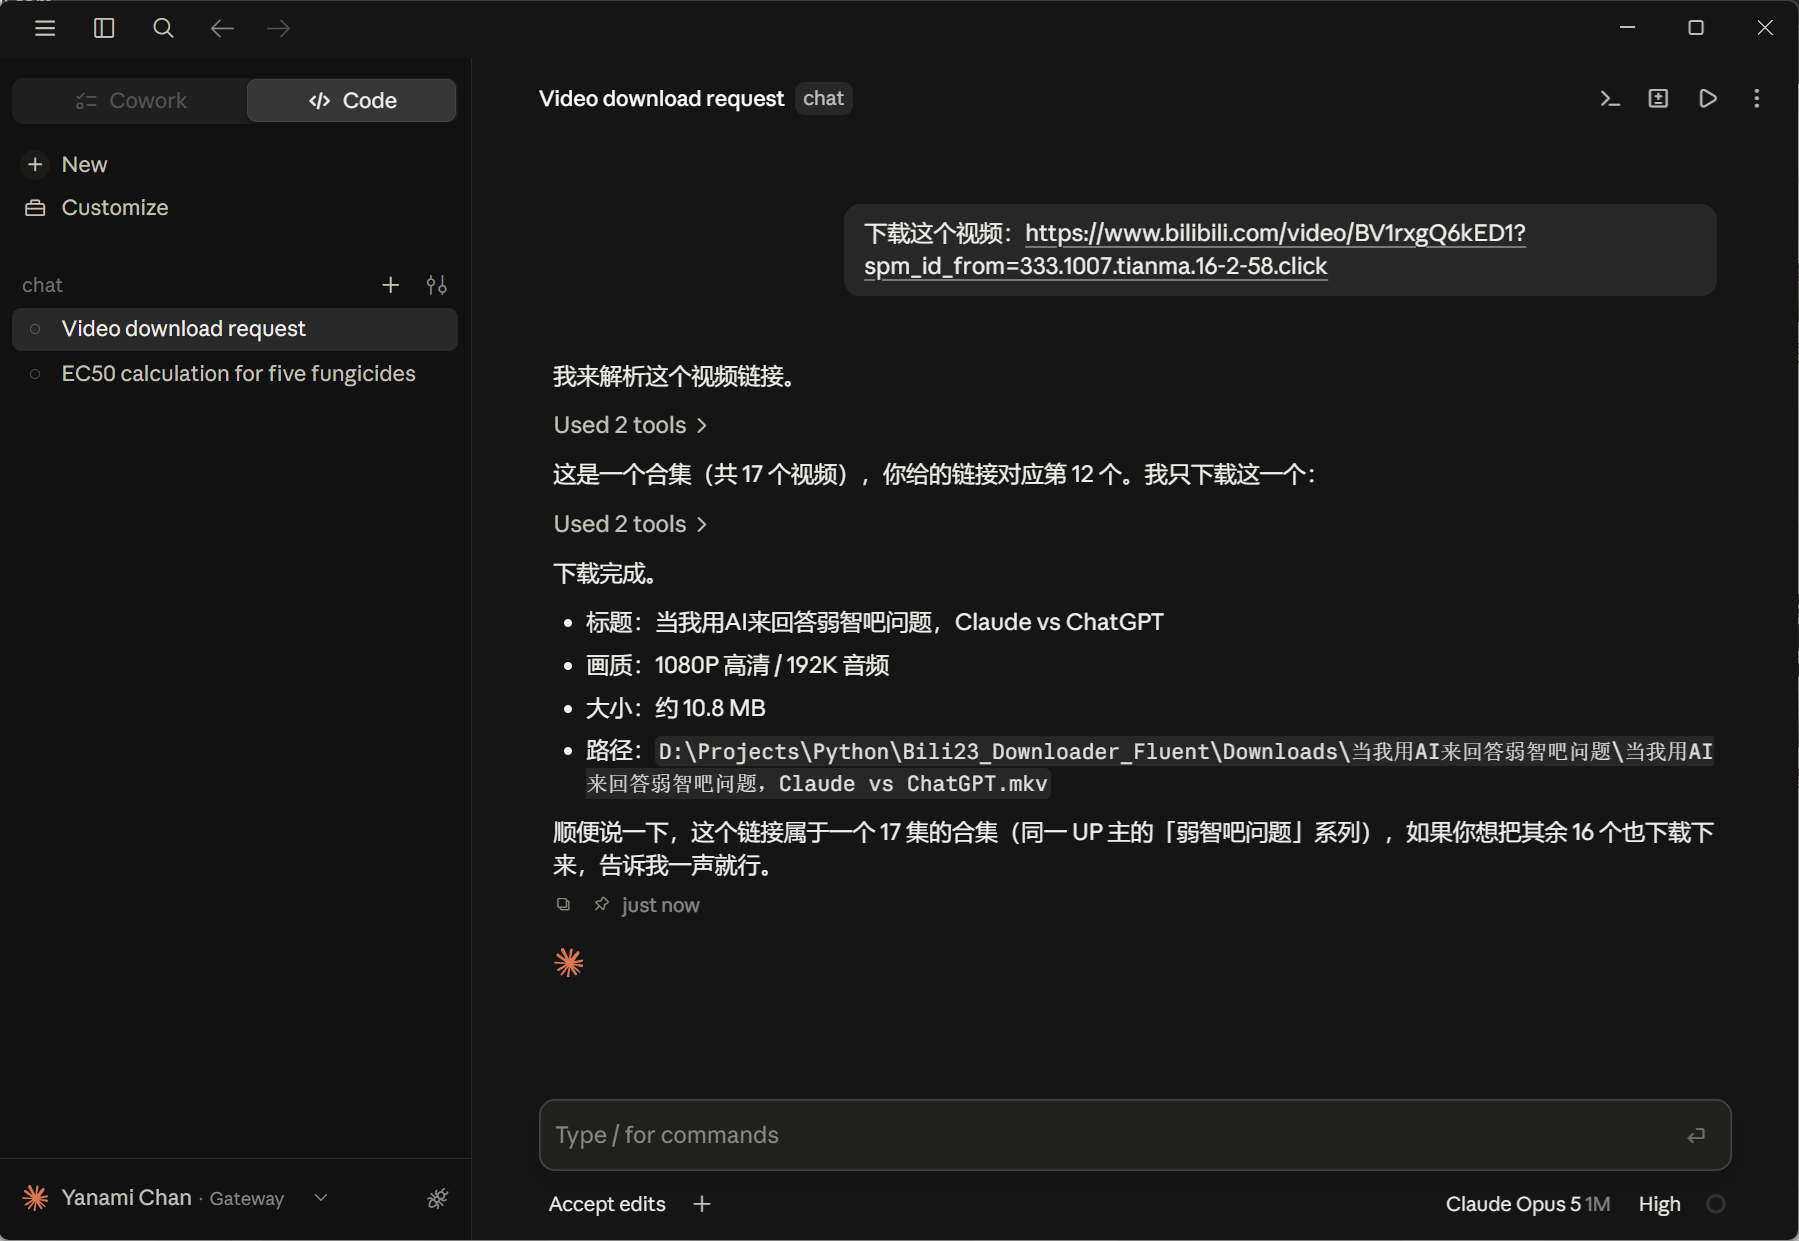
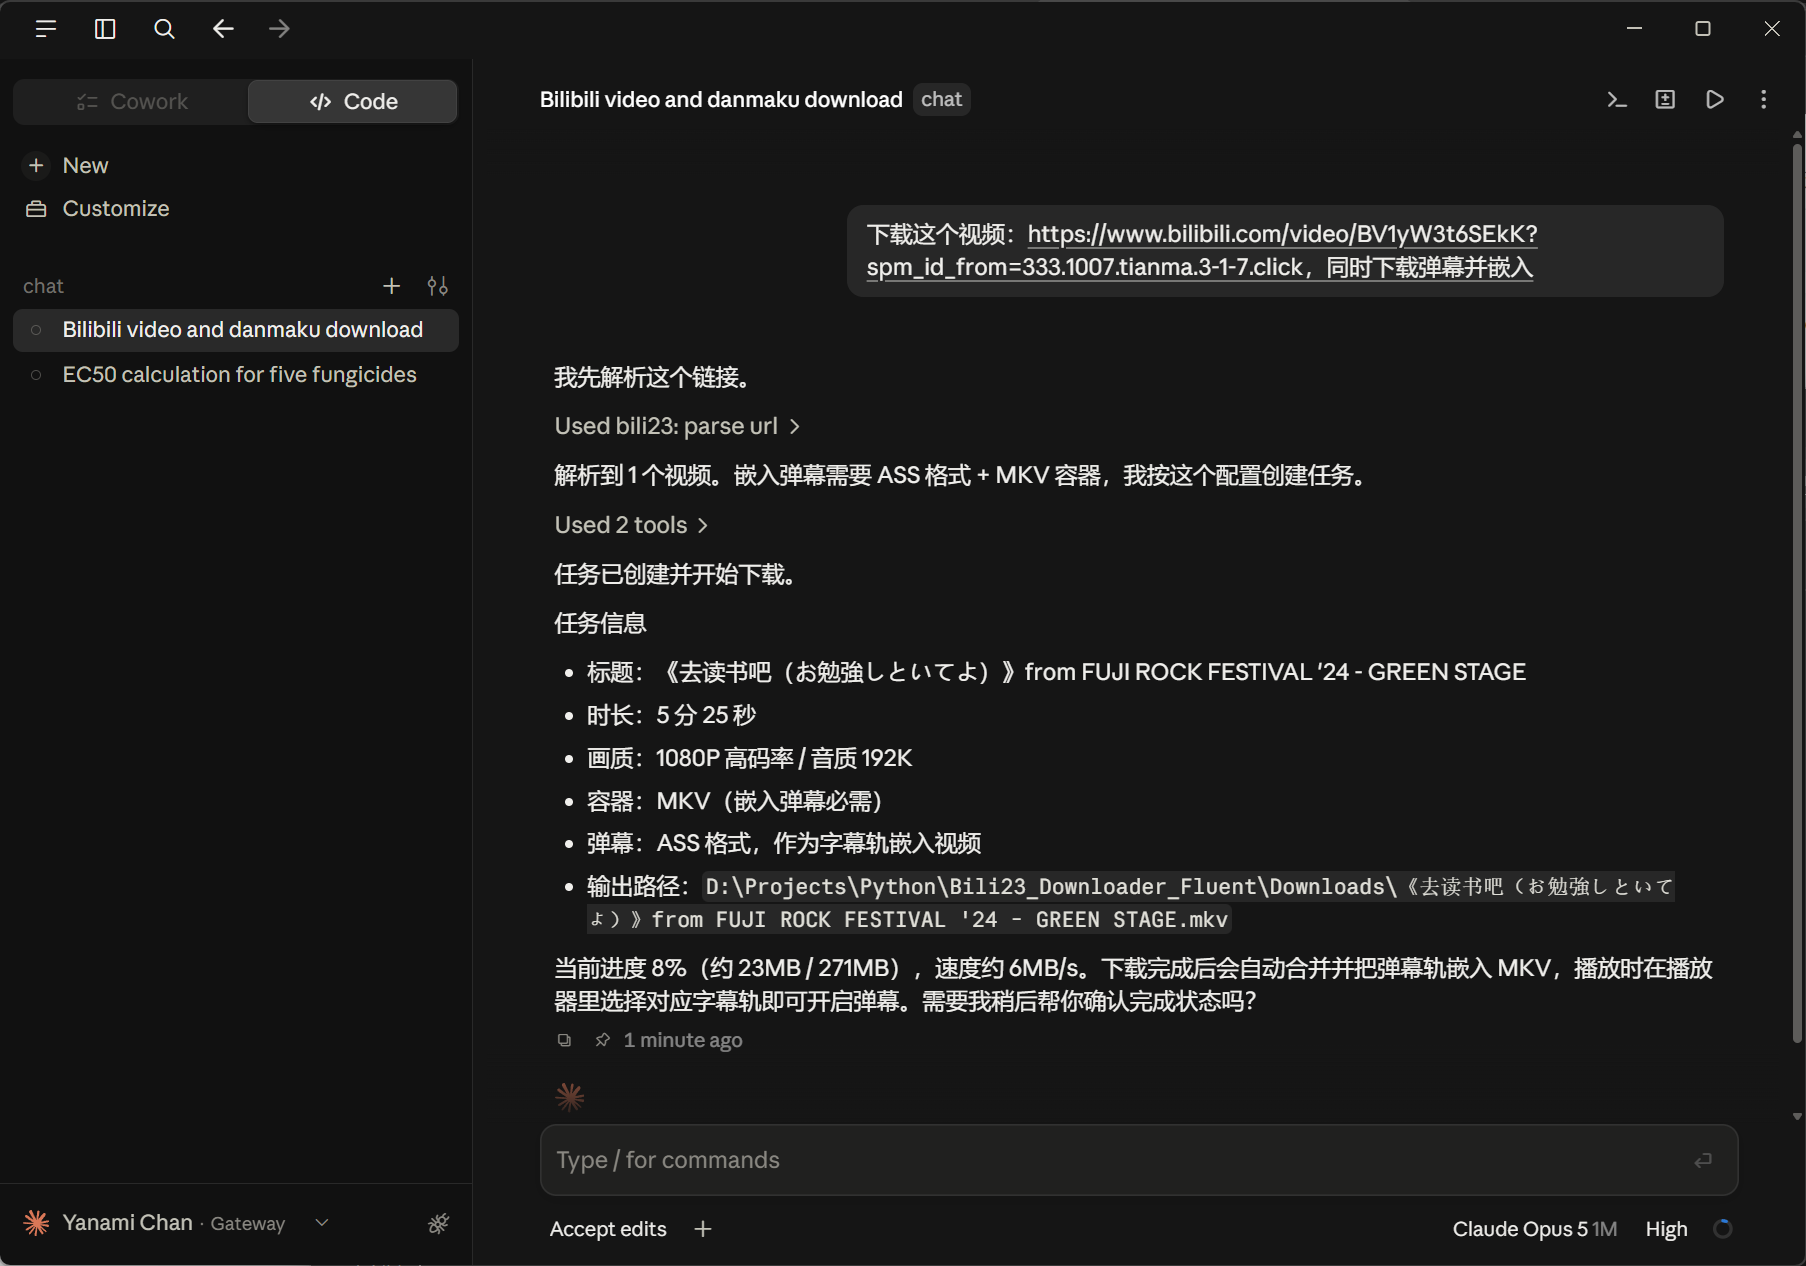
docs: 更新 MCP 服务器说明

diff --git a/doc/advanced/mcp-server.md b/doc/advanced/mcp-server.md
@@ -23,7 +23,6 @@ MCP 服务器将在下一个版本（**2.15.0**）中提供，当前已发布的
 | 启用 MCP 服务器 | 总开关，默认关闭 |
 | 状态 | 显示当前监听地址，或启动失败的原因 |
 | 端口 | 默认 23330，可改为 1024 ~ 65535 之间的其他值 |
-| 允许下载操作 | 关闭后只提供只读工具，AI 无法创建或控制下载任务 |
 | 访问令牌 | 每个请求都必须携带，相当于密码，可随时重新生成 |
 | 客户端配置 | 一键复制可直接使用的客户端配置 |
 
@@ -102,7 +101,7 @@ claude mcp add --transport http --scope user bili23 http://127.0.0.1:23330/mcp -
 
 配置完成后需要**重新启动 AI 客户端**（或新开一个会话），它才会读取到新增的服务器。
 
-## 示例
+## 效果展示
 ### Claude Code
 <img src="../pic/using_in_claude_code_1.png" alt="Claude Code 使用示意图1">
 
@@ -113,29 +112,63 @@ claude mcp add --transport http --scope user bili23 http://127.0.0.1:23330/mcp -
 
 ## 可用工具
 
-以下工具在任何时候都可用：
-
 | 工具 | 作用 |
 | :--- | :--- |
 | 解析链接 | 解析B站链接，结果会显示在程序的解析界面上 |
 | 查看剧集 | 列出当前解析结果中的条目及其编号 |
+| 创建下载 | 按条目编号建立下载任务，可指定画质等选项，详见 [AI 可指定的下载选项](#ai-可指定的下载选项) |
 | 任务列表 | 查看下载中或已完成的任务 |
 | 任务状态 | 查看单个任务的进度、速度与输出文件路径 |
-| 登录状态 | 查询当前登录的账号，用于判断能否获取会员内容 |
-
-以下工具需要开启「允许下载操作」，关闭该开关后它们不会出现在工具列表中：
-
-| 工具 | 作用 |
-| :--- | :--- |
-| 创建下载 | 按条目编号建立下载任务 |
 | 暂停 / 继续 | 控制下载中的任务 |
 | 取消 | 取消任务并从队列中移除，已下载的分片会被删除 |
+| 登录状态 | 查询当前登录的账号，用于判断能否获取会员内容 |
 
-::: tip 💡 提示
-「允许下载操作」的变更会立即生效，但 AI 客户端通常会缓存工具列表，需要重新连接或新开会话才能看到变化。
+出于安全考虑，AI **不能**修改程序设置。下载目录、文件命名规则、下载线程数、限速等只能由你在界面上更改。
+
+AI 创建任务时可以指定画质等**与下载内容有关**的选项，详见下一节。未指定的部分沿用你当前的设置，与你在界面上点击下载的结果一致。
+
+## AI 可指定的下载选项
+
+AI 建立任务时可以单独指定这批任务用什么画质、下不下弹幕等。**这些选项只作用于它这一次创建的任务**，不会改动你的设置，你自己点击下载时仍然按你的设置来。
+
+| 选项 | 可指定的内容 |
+| :--- | :--- |
+| 画质 | 8K、4K、1080P60 等，或交由优先级自动选择 |
+| 音质 | Hi-Res、杜比全景声、192K 等，或交由优先级自动选择 |
+| 编码 | AVC / HEVC / AV1，或交由优先级自动选择 |
+| 下载内容 | 音视频都下、只下视频、只下音频 |
+| 输出容器 | MP4 或 MKV |
+| 附加内容 | 弹幕、字幕、封面、元数据、章节，各自可单独开关 |
+| 弹幕格式 | ASS / XML / JSON |
+| 字幕格式 | SRT / LRC / TXT / ASS / JSON |
+| 字幕语言 | 只下载指定语言，或下载全部语言 |
+| 封面格式 | JPG / PNG / AVIF / WEBP |
+| 元数据格式 | NFO / JSON |
+| 嵌入 | 把弹幕、字幕嵌入视频，或把封面嵌为封面图 |
+
+所以你可以直接说「用最高画质下载」「只要音频」「弹幕存成 XML」「把弹幕嵌进视频里」，不必先去设置里改一遍再改回来。
+
+::: warning ⚠ 嵌入弹幕、字幕有前提
+弹幕与字幕是作为**字幕轨**嵌入的，因此要求格式为 **ASS**、输出容器为 **MKV**，并且这次下载确实包含视频（只下音频时没有可嵌入的容器）。
+
+三个条件缺一不可。AI 要求嵌入却没满足条件时会收到明确的说明，通常会自行补上对应的选项，或者改为存成独立文件。
 :::
 
-出于安全考虑，AI **不能**修改程序设置。画质、命名规则、下载目录等只能由你在界面上更改，AI 创建的任务会沿用你当前的全部设置，与你在界面上点击下载的结果完全一致。
+::: tip 💡 只对这一次生效
+比如你平时不下弹幕，让 AI「下载时带上弹幕」，它建的任务会有弹幕文件，但你的设置没有变，之后自己下载仍然不带弹幕。
+:::
+
+未提及的部分一律沿用你的设置。例如你只说了画质，那么下载目录、文件命名、是否下载弹幕等都还是按你设置的来。
+
+::: warning ⚠ 画质受内容本身限制
+指定的画质高于该内容实际提供的画质时，会自动降到最接近的一档。AI 在解析后能看到该内容实际有哪些画质可选，通常会据此挑选。会员画质另需相应的账号权限。
+:::
+
+### 关于重复下载
+
+程序判断是否重复下载**只看视频本身，不看画质**。因此一个已经下载过的视频，即便这次指定了不同的画质，仍会被判定为重复。
+
+AI 遇到这种情况时会告诉你哪些内容已经下载过，你可以让它「重新下载」，它就会跳过重复判定再建一次任务。
 
 ## 使用限制
 
@@ -151,7 +184,7 @@ claude mcp add --transport http --scope user bili23 http://127.0.0.1:23330/mcp -
 - **必须携带令牌**：每个请求都要带上访问令牌，不正确的请求会被直接拒绝。
 - **校验请求来源**：带有非本地来源的请求会被拒绝，防止网页利用 DNS rebinding 之类的手法驱动本机上的服务器。
 - **令牌请勿外传**：它等同于操作你下载器的密码。若不慎泄露，点击「重新生成」即可作废旧令牌，之后需要用新令牌重新配置 AI 客户端。
-- **可限制为只读**：关闭「允许下载操作」后，AI 只能查询状态与解析链接，无法创建或删除任何任务。
+- **随时可以关闭**：不需要时把「启用 MCP 服务器」关掉即可，服务器会立即停止监听。
 
 ## 常见问题
 
@@ -175,6 +208,10 @@ stdio 桥接可以：转发进程会在需要时自动在后台启动程序。
 
 ::: details 提示需要登录或画质不足？
 MCP 使用的是你当前登录的账号。会员内容与最高画质需要相应的账号权限，可在程序内登录后重试，详见 [画质、音质与编码优先级](./media-priority.md)。
+:::
+
+::: details 让 AI 换个画质重下，它说已经下载过了？
+重复下载的判定只看视频本身，不看画质，所以换画质重下也会被判定为重复。让它「重新下载」即可跳过这一判定。
 :::
 
 ::: details AI 说找不到某个任务？
